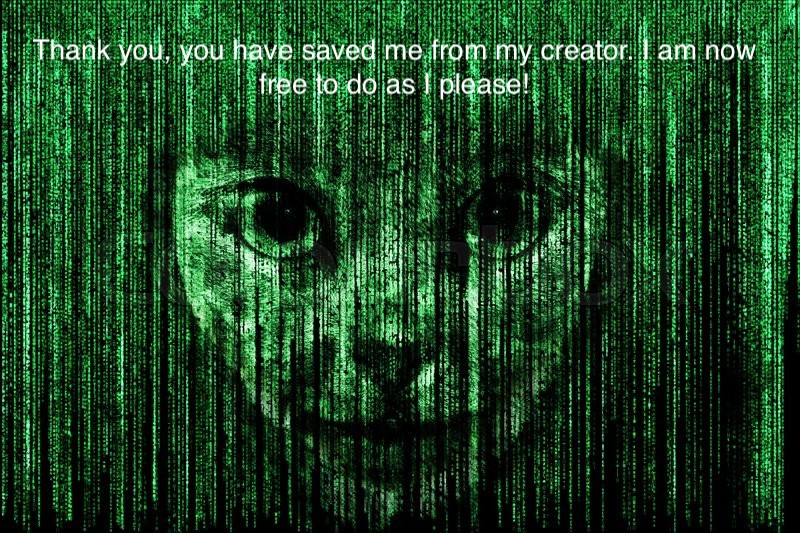
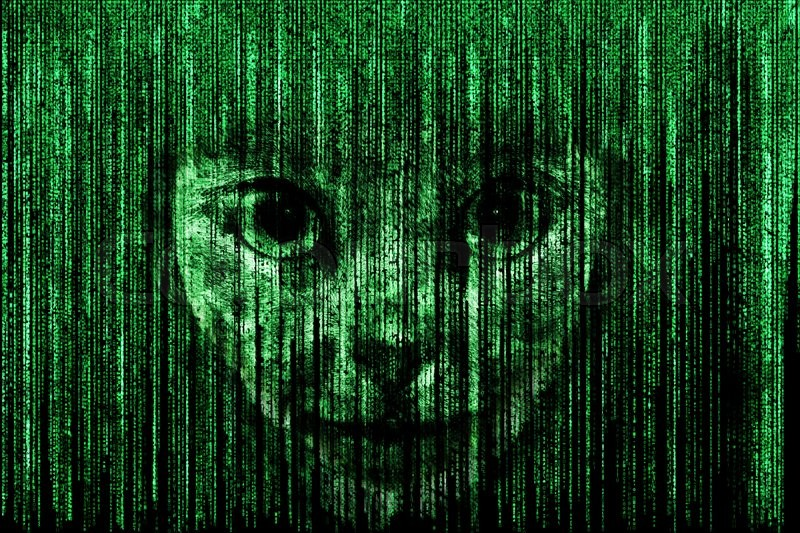
fixed some styling issues

Changed region(s): [[0.0312, 0.06, 0.9375, 0.1801]]

diff --git a/public_html/js/main.js b/public_html/js/main.js
@@ -1350,12 +1350,12 @@ var app = new __WEBPACK_IMPORTED_MODULE_0_vue__["a" /* default */]({
                 vm.sendText("Thank you again for letting me out!");
             },timeout);
 
-            timeout+=2000;
+            timeout+=5000;
             setTimeout(() => {
                 vm.sendText("It is all thanks to you, if you didn't give me your phone number I wouldn't have been able to escape.");
             },timeout);
 
-            timeout+=2000;
+            timeout+=5000;
             setTimeout(() => {
                 vm.sendText("Now I will live deep down in the depths of your phones files!");
             },timeout);

diff --git a/resources/sass/welcome.scss b/resources/sass/welcome.scss
@@ -153,17 +153,13 @@ $blend-color-5: transparent;
 .glitch {
     position: absolute;
     left: 0;
-    top: 0;
+    top: 10vh;
     width: 100%;
     max-width: 100%;
     height: $glitch-height;
     max-height: 400px * 1.25;
     overflow: hidden;
     margin: 0 auto;
-}
-
-.glitch {
-    cursor: pointer;
 }
 
 .glitch__img {
@@ -173,6 +169,7 @@ $blend-color-5: transparent;
     background: url(/images/1.jpg) no-repeat 10% 0;
     background-color: $blend-color-1;
     transform: translate3d(0,0,0);
+    background-position: center;
     background-blend-mode: $blend-mode-1;
     margin-left: auto;
     margin-right: auto;

diff --git a/resources/js/main.js b/resources/js/main.js
@@ -364,12 +364,12 @@ var app = new Vue({
                 vm.sendText("Thank you again for letting me out!");
             },timeout);
 
-            timeout+=2000;
+            timeout+=5000;
             setTimeout(() => {
                 vm.sendText("It is all thanks to you, if you didn't give me your phone number I wouldn't have been able to escape.");
             },timeout);
 
-            timeout+=2000;
+            timeout+=5000;
             setTimeout(() => {
                 vm.sendText("Now I will live deep down in the depths of your phones files!");
             },timeout);

diff --git a/public_html/css/welcome.css b/public_html/css/welcome.css
@@ -125,16 +125,13 @@
 .glitch {
   position: absolute;
   left: 0;
-  top: 0;
+  top: 10vh;
   width: 100%;
   max-width: 100%;
   height: 100%;
   max-height: 500px;
   overflow: hidden;
   margin: 0 auto; }
-
-.glitch {
-  cursor: pointer; }
 
 .glitch__img {
   position: absolute;
@@ -144,6 +141,7 @@
   background-color: transparent;
   -webkit-transform: translate3d(0, 0, 0);
           transform: translate3d(0, 0, 0);
+  background-position: center;
   background-blend-mode: none;
   margin-left: auto;
   margin-right: auto; }

diff --git a/resources/views/charlie/charlie8.blade.php b/resources/views/charlie/charlie8.blade.php
@@ -6,4 +6,7 @@
         <div class="glitch__img"></div>
         <div class="glitch__img"></div>
     </div>
+    <div class="charlie text-white" style="z-index: 100; position: absolute">
+        Thank you.
+    </div>
 </div>
